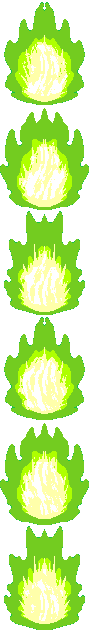
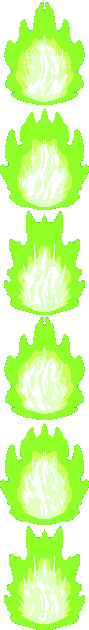
auras now emit light

diff --git a/MyPlayer.cs b/MyPlayer.cs
@@ -271,15 +271,13 @@ namespace DBZMOD
                 {
                     ASSJAchieved = true;
                     Main.NewText("Your SSJ1 Mastery has been upgraded." +
-                        "\nHold charge and transform while in SSJ1 " +
-                        "\nto ascend.", 232, 242, 50);
+                        "\nHold charge and transform while in SSJ1 to ascend.", 232, 242, 50);
                 }
                 else if (MasteryLevel1 >= 0.75f && !USSJAchieved)
                 {
                     USSJAchieved = true;
                     Main.NewText("Your SSJ1 Mastery has been upgraded." +
-                        "\nHold charge and transform while in ASSJ " +
-                        "\nto ascend.", 232, 242, 50);
+                        "\nHold charge and transform while in ASSJ to ascend.", 232, 242, 50);
                 }
                 else if (MasteryLevel1 >= 1f && !MasteredMessage1)
                 {

diff --git a/Projectiles/Auras/BaseAuraProj.cs b/Projectiles/Auras/BaseAuraProj.cs
@@ -30,6 +30,7 @@ namespace DBZMOD.Projectiles.Auras
             BaseAuraTimer = 5;
             projectile.netUpdate = true;
             AuraOffset.Y = -20;
+			projectile.light = 1f;
         }
         public override void AI()
         {

diff --git a/Projectiles/Auras/LSSJ2AuraProj.cs b/Projectiles/Auras/LSSJ2AuraProj.cs
@@ -34,6 +34,7 @@ namespace DBZMOD.Projectiles.Auras
             AuraOffset.Y = -75;
             ScaleExtra = 0.7f;
             IsSSJAura = true;
+			projectile.light = 1f;
         }
         public override void AI()
         {

diff --git a/Projectiles/Auras/LSSJAuraProj.cs b/Projectiles/Auras/LSSJAuraProj.cs
@@ -34,6 +34,7 @@ namespace DBZMOD.Projectiles.Auras
             AuraOffset.Y = -55;
             ScaleExtra = 0.3f;
             IsSSJAura = true;
+			projectile.light = 1f;
         }
         public override void AI()
         {

diff --git a/Projectiles/Auras/SSJ2AuraProj.cs b/Projectiles/Auras/SSJ2AuraProj.cs
@@ -34,6 +34,7 @@ namespace DBZMOD.Projectiles.Auras
             AuraOffset.Y = -52;
             ScaleExtra = 0.3f;
             IsSSJAura = true;
+			projectile.light = 1f;
         }
         public override void AI()
         {

diff --git a/Projectiles/Auras/SSJ3AuraProj.cs b/Projectiles/Auras/SSJ3AuraProj.cs
@@ -34,6 +34,7 @@ namespace DBZMOD.Projectiles.Auras
             AuraOffset.Y = -75;
             IsSSJAura = true;
             ScaleExtra = 0.7f;
+			projectile.light = 1f;
         }
         public override void AI()
         {

diff --git a/Projectiles/Auras/SSJGAuraProj.cs b/Projectiles/Auras/SSJGAuraProj.cs
@@ -35,6 +35,7 @@ namespace DBZMOD.Projectiles.Auras
             ScaleExtra = 0.2f;
             FrameAmount = 6;
             IsSSJAura = true;
+			projectile.light = 1f;
         }
         public override void AI()
         {

diff --git a/Projectiles/Auras/SSJ1AuraProj.cs b/Projectiles/Auras/SSJ1AuraProj.cs
@@ -33,6 +33,7 @@ namespace DBZMOD.Projectiles.Auras
             AuraOffset.Y = -38;
 			ScaleExtra = 0.1f;
             IsSSJAura = true;
+			projectile.light = 1f;
         }
         public override void AI()
         {
